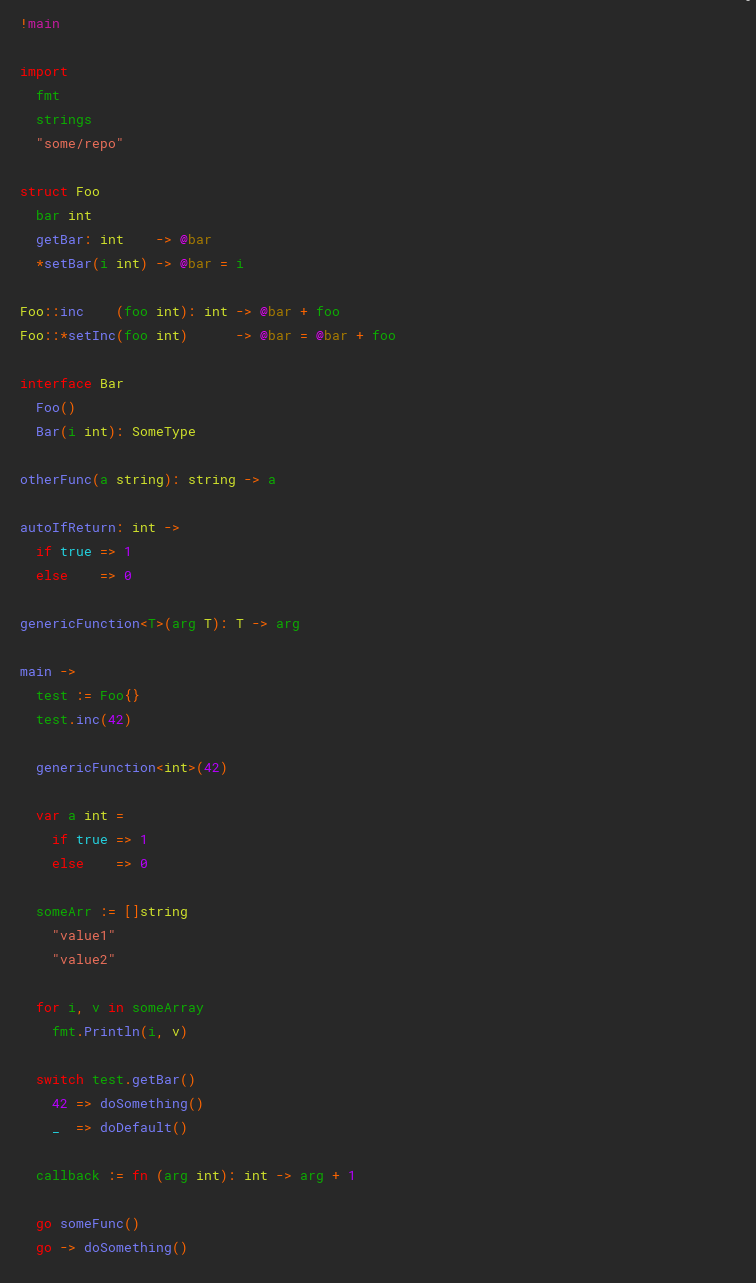
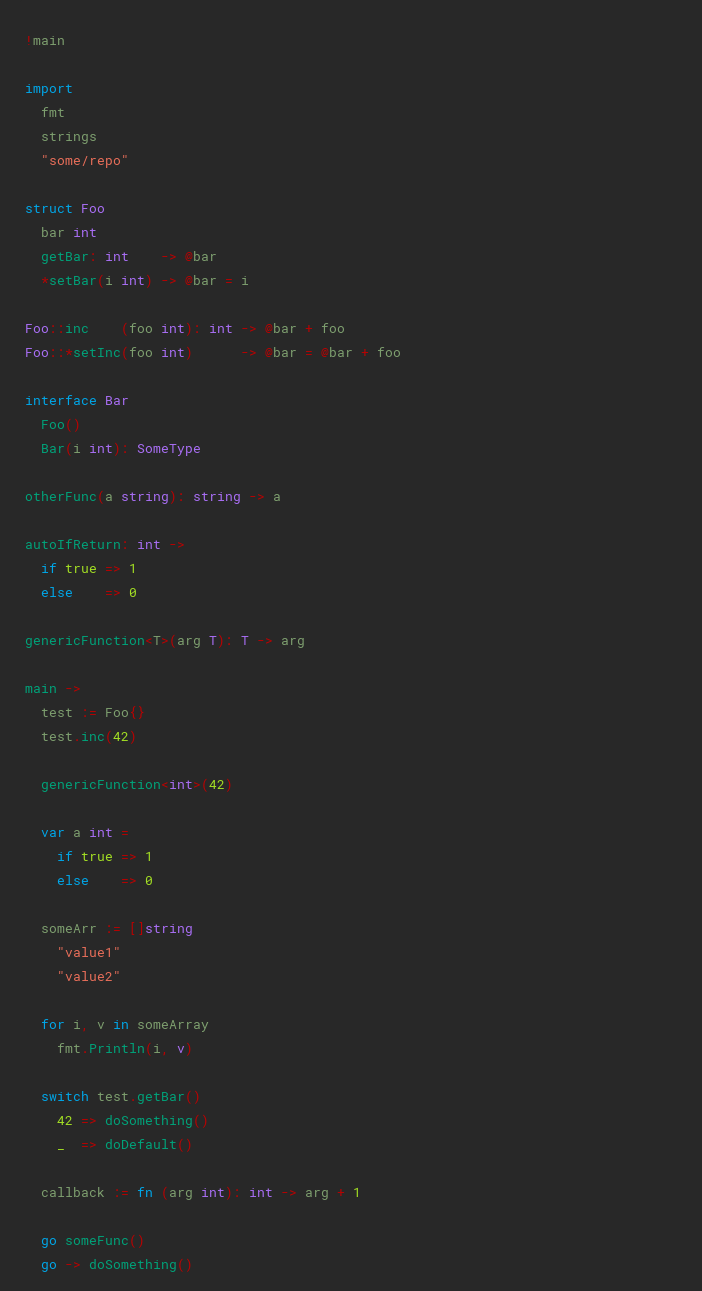
Update doc

diff --git a/docs/index.html b/docs/index.html
@@ -17,20 +17,13 @@
     .lang-og > .token.lol {
       color: hsl(0, 0%, 100%);
     }
+    .lang-og > .token.number,
     .lang-og > .token.boolean {
-      color: hsl(184, 75%, 51%);
-    }
-    .lang-og > .token.number {
-      color: hsl(283, 100%, 50%);
-    }
-    .lang-og > .token.this {
-      color: hsl(295, 100%, 50%);
-    }
-    .lang-og > .token.thisProp {
-      color: hsl(44, 99%, 33%);
+      color: hsl(79, 75%, 51%);
     }
     .lang-og > .token.keyword {
-      color: hsl(0, 100%, 50%);
+      color: #00a7e9;
+      /* color: hsl(12, 80%, 42%); */
     }
     .lang-og > .token.returnType,
     .lang-og > .token.argType,
@@ -38,25 +31,30 @@
     .lang-og > .token.className,
     .lang-og > .token.externalReceiver,
     .lang-og > .token.builtin {
-      color: hsl(66, 76%, 53%);
+      color: hsl(266, 88%, 70%);
     }
-    .lang-og > .token.operator, .lang-og > .token.package, .lang-og > .token.parens {
-      color: hsl(24, 100%, 50%);
+    .lang-og > .token.operator,
+    .lang-og > .token.package,
+    .lang-og > .token.this,
+    .lang-og > .token.parens {
+      color: hsl(0, 98%, 37%);
     }
-    .lang-og > .token.packageName {
-      color: hsl(313, 77%, 44%);
-    }
+    /* .lang-og > .token.packageName {
+      color: #657b83;
+    } */
     .lang-og > .token.trolol {
       color: hsl(24, 55%, 48%);
     }
     .lang-og > .token.assign, .markdown-section pre>code.lang-og {
-      color: hsl(116, 98%, 34%);
+      color: hsl(101, 20%, 53%);
+      /* color: hsl(0, 0%, 73%); */
     }
     .lang-og > .token.funcName,
     .lang-og > .token.secondary,
     .lang-og > .token.funcCall,
     .lang-og > .token.externalMethod {
-      color: hsl(238, 90%, 72%);
+      color: hsl(165, 100%, 32%);
+      /* color: hsl(51, 100%, 32%); */
     }
   </style>
 </head>

diff --git a/docs/features.md b/docs/features.md
@@ -624,12 +624,20 @@ type Bar interface {
 ```
 ## Template
 
+Templates can be defined across packages, their definition is kept in a hidden file in order to avoir reparsing the whole package when needed
+
 #### Og
 
 ```og
+struct Foo<T>
+  bar T
+
 genericFunction<T>(arg T): T -> arg
 
 main ->
+  a := Foo<int>
+    bar: 1
+
   genericFunction<int>(a)
   genericFunction<string>(a)
 ```
@@ -637,17 +645,24 @@ main ->
 #### Go
 
 ```go
-func genericFunctionint(arg int) int {
+type example_Foo_int struct {
+  bar int
+}
+
+func example_genericFunction_int(arg int) int {
   return arg
 }
 
-func genericFunctionstring(arg string) string {
+func example_genericFunction_string(arg string) string {
   return arg
 }
 
 func main() {
-  genericFunctionint(a)
-  genericFunctionstring(a)
+  a := example_Foo_int{
+    bar: 1,
+  }
+  example_genericFunction_int(a)
+  example_genericFunction_string(a)
 } 
 ```
 

diff --git a/README.md b/README.md
@@ -9,10 +9,7 @@ We are looking for a better name !
 
 # Disclamer
 
-<h3> This software is in its early stage.<br/>
-New features come fast, at the cost of breaking things often.<br />
-Testers and Contributors are most welcome
-</h3>
+<h3> This software is in its early stage.</h3>
 
 # Quick overview
 
@@ -29,7 +26,6 @@ This is a quick and dirty syntactic coloration made by hand in optic to highligh
   <img height="220" src="https://github.com/Champii/og/raw/master/docs/_media/og_preview.gif" />
 </p>
 
-
 # Build
 
 Here is the procedure to regenerate the parser from the grammar if you want to make changes to it.  
@@ -38,7 +34,7 @@ You will need `Java`, the Antlr4 library is in `./parser/antlr4-4.7.1-SNAPSHOT-c
 
 ```bash
 # Get Og
-go get -u github.com/champii/og
+go get -u github.com/champii/og 
 cd $GOPATH/src/github.com/champii/og
 
 # This will regenerate the grammar,

diff --git a/docs/changelog.md b/docs/changelog.md
@@ -7,7 +7,7 @@
   - Colorful ast and lines/columns are shown
   - Replace every tabs with 2 spaces in the source. You should use spaces.
   - Templates can now be used across packages
-  - Templates generate a hidden file in the given package to avoid reparsing the whole. This allows for the creation of a Templated Standard Library
+  - Templates generate a hidden file in the given package to avoid reparsing the whole. This allows for the creation of a Standard Templated Library
 
 
 ## v0.7.1
